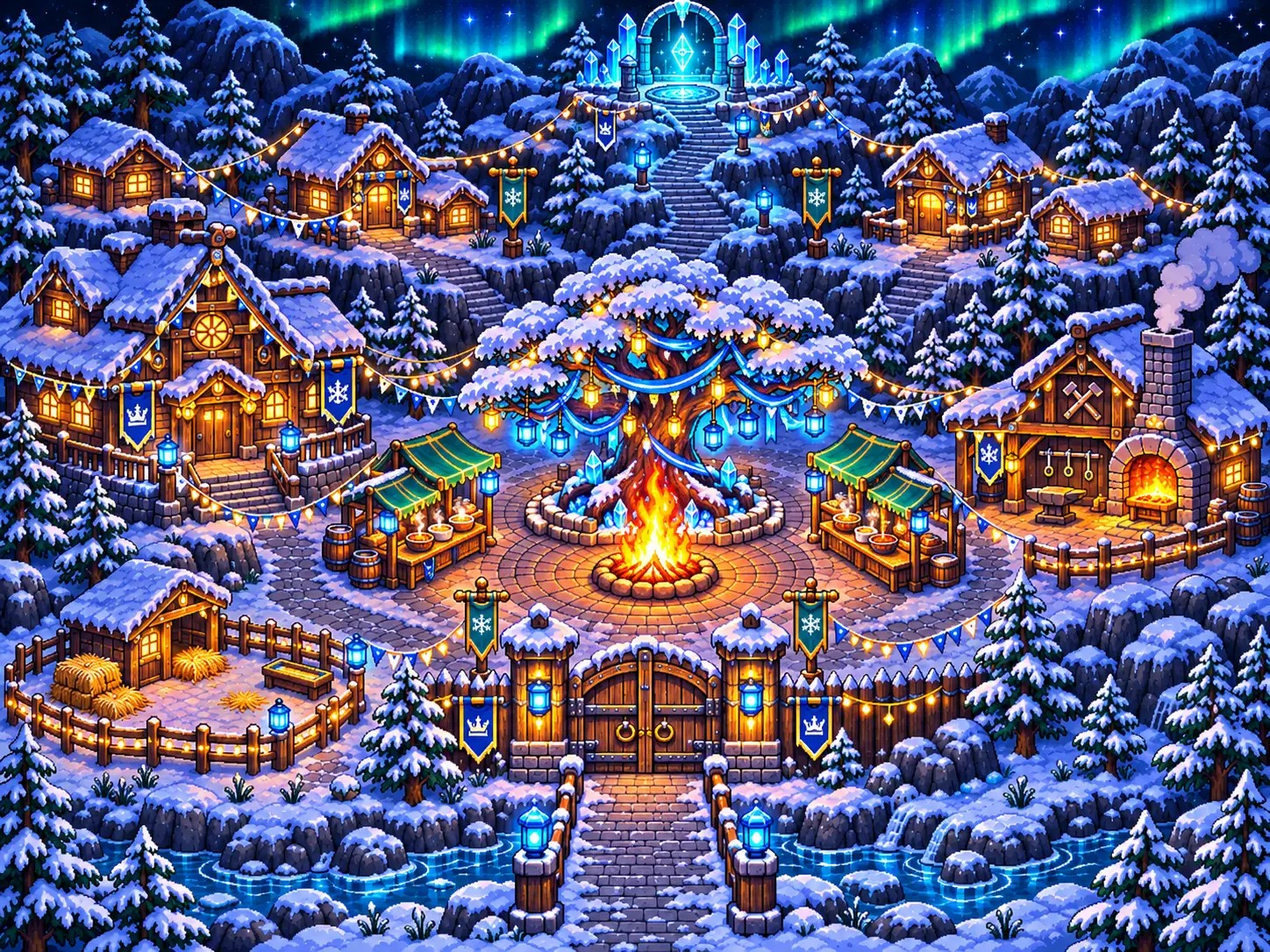
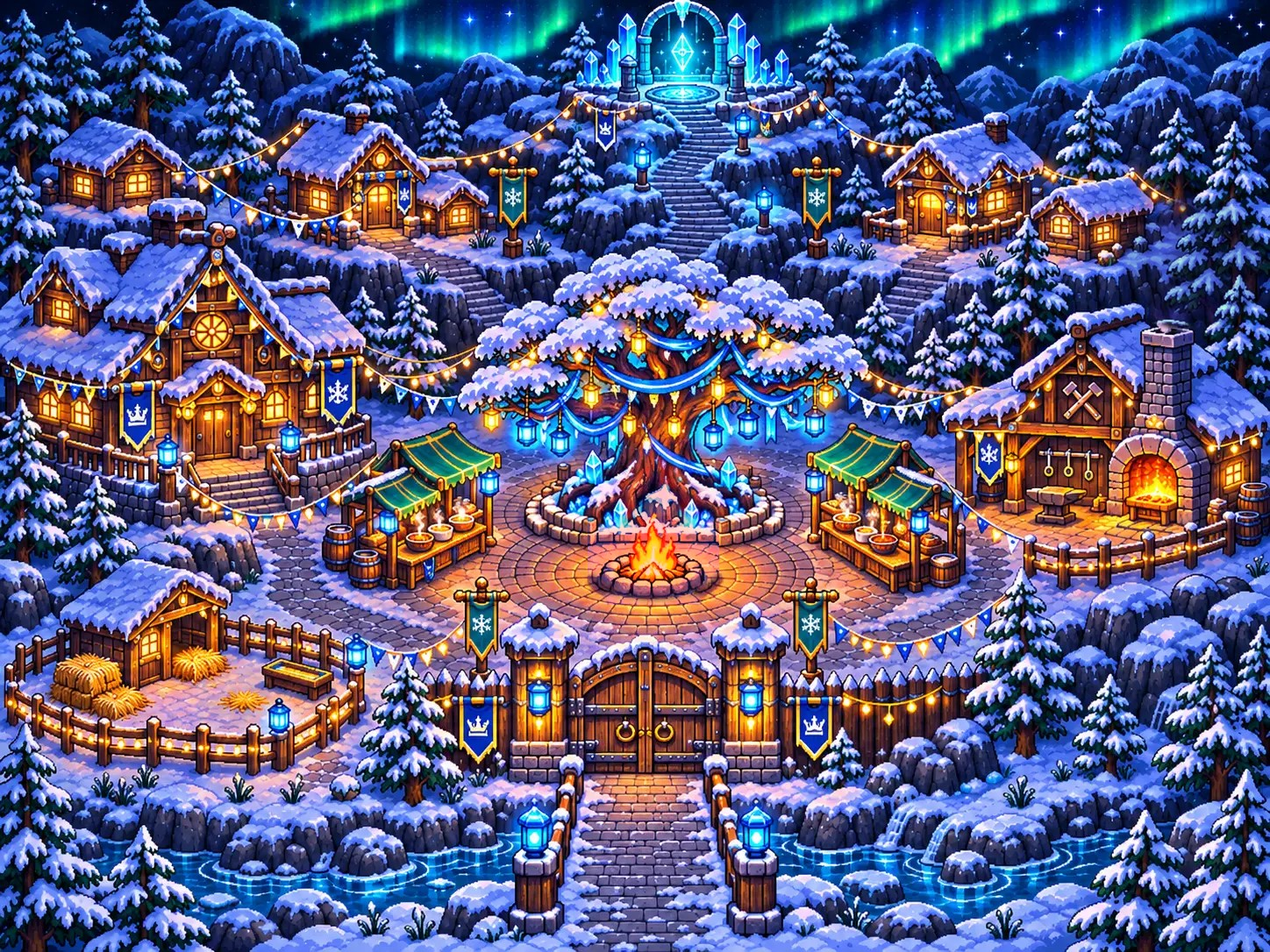
Mapa da festa: sem lanternas, bandeiras, fogo e fumaca duplicados

Changed region(s): [[0.4351, 0.4862, 0.5905, 0.6381], [0.8702, 0.2127, 0.9945, 0.3646]]

diff --git a/vila_motor.js b/vila_motor.js
@@ -34,7 +34,7 @@ function aplicaFestival(){if(festAplicado)return;festAplicado=true;
 MAPA_FEST.onload=()=>{MAPA.src=MAPA_FEST.src;
   for(const f of FR){const c=document.createElement('canvas');c.width=f.w;c.height=f.h;const g=c.getContext('2d');
     const faz=()=>{g.clearRect(0,0,f.w,f.h);g.drawImage(f.i0||f.i,0,0,f.w,f.h);g.globalCompositeOperation='source-in';g.drawImage(MAPA_FEST,f.x,f.y,f.w,f.h,0,0,f.w,f.h);g.globalCompositeOperation='source-over';f.i0=f.i0||f.i;f.i=c;};
-    if((f.i0||f.i).complete)faz();else (f.i0||f.i).addEventListener('load',faz,{once:true});}};MAPA_FEST.src='assets/vila/mapa_festival.jpg';}
+    if((f.i0||f.i).complete)faz();else (f.i0||f.i).addEventListener('load',faz,{once:true});}};MAPA_FEST.src='assets/vila/mapa_festival.jpg?v=2';}
 // VILA EM ATAQUE (FICHA_CAP2_ATAQUE.md, Parte B): o mesmo desenho, tudo por IMAGEM (pedido do usuario): mapa ref/vila/mapa_ataque.png,
 // fogo e fumaca roxos animados pelas folhas (tools/cut_ataque.py -> vila_ataque.js). Musica 'Evil Awaits' (bosslevelaudio, CC-BY 3.0).
 const emAtaque=()=>NA_VILA&&!!(JOGO.cap2&&JOGO.cap2.fase==='ataque');
@@ -79,6 +79,9 @@ const partFeito=k=>!!((JOGO.cap2&&JOGO.cap2.e)||{})[k];
 const partProximo=()=>PART_PASSOS.find(k=>!partFeito(k))||null;
 function partMarca(k){JOGO.cap2.e=JOGO.cap2.e||{};JOGO.cap2.e[k]=true;salvaJogo();}
 const TICO_ALTAR={id:'tico_altar',x:760,y:175,r:0};
+// mapas da festa e do ataque tem as PROPRIAS lanternas e bandeiras desenhadas em outros lugares: as animadas do mapa de dia
+// (lanternas da arvore, bandeiras e cabecas de poste) nao vao por cima (2026-11-20: ficavam duas lanternas e duas bandeiras juntas)
+const mapaFesta=()=>NA_VILA&&(emFestival()||emAtaque());
 const POSTES_FEST=[[572,280,598,298],[922,280,948,298]];   // postes de bandeira que so existem no mapa da festa (pe bloqueia)
 const FEST_EFEITO={
   ingrid:()=>{if(JOGO.cap2.ingrid)return;JOGO.cap2.ingrid=true;JOGO.buff={id:'ensopado',lutas:(ITENS.ensopado&&ITENS.ensopado.lutas)||5};som(SOM.ui_vez,.6);aviso('Ensopado do Festival: bônus de comida ativo!','#7dffa8');salvaJogo();},
@@ -1778,7 +1781,7 @@ function desenha(){
   else if(NA_VILA&&emAtaque()){luz(742,648,70+Math.sin(t*9)*5+Math.sin(t*23)*2,'rgba(190,70,255,.40)');for(const[fx,fy,fe]of[...ATQ_TETO,...ATQ_CHAO])luz(fx,fy-16*fe/.4,40*fe/.4+Math.sin(t*8+fx)*3,'rgba(200,60,255,.30)');}
   else if(NA_VILA){luz(740,645,62+Math.sin(t*9)*4+Math.sin(t*23)*2,'rgba(255,150,50,.42)');
   luz(1302,515,38+Math.sin(t*7)*3,'rgba(255,130,40,.36)');
-  for(const[lx,ly,k]of[[602,490,0],[637,505,1],[670,462,2],[812,490,3],[851,480,4],[900,460,5],[930,476,6],[190,515,7],[330,500,8],[405,745,9],[320,822,10],[615,790,11],[855,790,12],[735,182,13],[870,225,14],[848,140,15]])luz(lx,ly,13,`rgba(120,220,255,${.2+.13*Math.sin(t*2+k*1.7)})`);
+  if(!mapaFesta())for(const[lx,ly,k]of[[602,490,0],[637,505,1],[670,462,2],[812,490,3],[851,480,4],[900,460,5],[930,476,6],[190,515,7],[330,500,8],[405,745,9],[320,822,10],[615,790,11],[855,790,12],[735,182,13],[870,225,14],[848,140,15]])luz(lx,ly,13,`rgba(120,220,255,${.2+.13*Math.sin(t*2+k*1.7)})`);
   // janelas acesas piscando de leve
   }
   if(NA_VILA&&!emAtaque())for(const[wx,wy,k]of[[95,210,0],[430,225,1],[240,385,2],[160,470,3],[240,475,4],[355,450,5],[1060,230,6],[1135,225,7],[1210,255,8],[1405,540,9],[70,350,10]])luz(wx,wy,10,`rgba(255,200,110,${.16+.08*Math.sin(t*1.3+k*2.1)})`);
@@ -1801,9 +1804,9 @@ function desenha(){
   // fumaca
   for(const f of fumaca){ctx.fillStyle=`rgba(190,200,215,${.32*(1-f.v/3.4)})`;ctx.beginPath();ctx.arc(f.x,f.y,f.s,0,6.283);ctx.fill();}
   // heroi (sem sombra: em Elyria o Jux nao tem sombra) e as frentes por cima dele
-  if(NA_VILA&&!emAtaque()&&hero.y>=520)desenhaLanternas();
+  if(NA_VILA&&!mapaFesta()&&hero.y>=520)desenhaLanternas();
   uiMundo();
-  const npcs=[...(SEG.ativo?[[SEG.y,desenhaSeguidor]]:[]),...(!NA_VILA?[[235,desenhaHalvardCaverna]]:emAtaque()?ataqueDesenhos():[[bacon.y,desenhaBacon],[tico.y,desenhaTico],[vovo.y,desenhaVovo],[borin.y,desenhaBorin],...ANDARILHOS.map(n=>[n.y,()=>desenhaAndarilho(n)]),...FIGURANTES.map(f=>[f.y,()=>desenhaFesta(f)]),...prepDesenhos(),...(BAN?BAN.lugares.map((l,i)=>[l[2]-6,()=>desenhaBandeira(i)]):[]),...(FOG&&!emManha()?FOG.lugares.map((l,i)=>[l[1],()=>desenhaFogo(i)]):[]),...(POS?POS.lugares.map((l,i)=>[l[1]+l[2]*1.6,()=>desenhaPoste(i)]):[])])].sort((a,b)=>a[0]-b[0]);   // quem esta atras do Jux vem antes
+  const npcs=[...(SEG.ativo?[[SEG.y,desenhaSeguidor]]:[]),...(!NA_VILA?[[235,desenhaHalvardCaverna]]:emAtaque()?ataqueDesenhos():[[bacon.y,desenhaBacon],[tico.y,desenhaTico],[vovo.y,desenhaVovo],[borin.y,desenhaBorin],...ANDARILHOS.map(n=>[n.y,()=>desenhaAndarilho(n)]),...FIGURANTES.map(f=>[f.y,()=>desenhaFesta(f)]),...prepDesenhos(),...(BAN&&!mapaFesta()?BAN.lugares.map((l,i)=>[l[2]-6,()=>desenhaBandeira(i)]):[]),...(FOG&&!emManha()?FOG.lugares.map((l,i)=>[l[1],()=>desenhaFogo(i)]):[]),...(POS&&!mapaFesta()?POS.lugares.map((l,i)=>[l[1]+l[2]*1.6,()=>desenhaPoste(i)]):[])])].sort((a,b)=>a[0]-b[0]);   // quem esta atras do Jux vem antes
   for(const [y,f] of npcs)if(y<=hero.y)f();
   desenhaHeroi(ctx,1);
   const hb=[hero.x-20,hero.y-54,hero.x+20,hero.y];let escondido=false;
@@ -1840,7 +1843,7 @@ function desenha(){
   desenhaFestaCeu();   // lanternas de papel e fogos de gelo na noite do festival
   // neve levantando nos passos
   ctx.fillStyle='rgba(235,248,255,.9)';for(const p of poeira){ctx.globalAlpha=1-p.v/.6;ctx.fillRect(p.x,p.y,1.2,1.2);}ctx.globalAlpha=1;
-  if(NA_VILA){if(hero.y<520&&!emAtaque())desenhaLanternas();if(!emAtaque())desenhaFumacas();desenhaBrilhos();}
+  if(NA_VILA){if(hero.y<520&&!mapaFesta())desenhaLanternas();if(!emAtaque())desenhaFumacas();desenhaBrilhos();}
   if(typeof vidaDesenha==='function')vidaDesenha('ar');
   // "!" em cima do heroi perto de algo
   if(perto&&!fala){const bx=hero.x,by=hero.y-58+Math.sin(t*5)*1.5;ctx.fillStyle='#fff';ctx.strokeStyle='#0a2a4a';ctx.lineWidth=1;

diff --git a/pico.html b/pico.html
@@ -53,7 +53,7 @@ canvas{width:min(100vw,177.78vh);height:auto;aspect-ratio:16/9;touch-action:none
 <script src="vila_retratos.js?v=1795117438"></script>
 <script src="vila_npc_halvard.js?v=1795117438"></script>
 <script src="vila_npc_bino.js?v=1795117438"></script>
-<script src="vila_motor.js?v=1795245100"></script>
+<script src="vila_motor.js?v=1795246300"></script>
 <script src="tela_cheia.js?v=1795225900"></script>
 </body>
 </html>

diff --git a/trilha.html b/trilha.html
@@ -48,7 +48,7 @@ canvas{width:min(100vw,177.78vh);height:auto;aspect-ratio:16/9;touch-action:none
 <script src="vila_retratos.js?v=1795117438"></script>
 <script src="vila_npc_halvard.js?v=1795117438"></script>
 <script src="vila_npc_bino.js?v=1795117438"></script>
-<script src="vila_motor.js?v=1795245100"></script>
+<script src="vila_motor.js?v=1795246300"></script>
 <script src="tela_cheia.js?v=1795225900"></script>
 </body>
 </html>

diff --git a/vale.html b/vale.html
@@ -49,7 +49,7 @@ canvas{width:min(100vw,177.78vh);height:auto;aspect-ratio:16/9;touch-action:none
 <script src="vila_retratos.js?v=1795117438"></script>
 <script src="vila_npc_halvard.js?v=1795117438"></script>
 <script src="vila_npc_bino.js?v=1795117438"></script>
-<script src="vila_motor.js?v=1795245100"></script>
+<script src="vila_motor.js?v=1795246300"></script>
 <script src="tela_cheia.js?v=1795225900"></script>
 </body>
 </html>

diff --git a/garganta.html b/garganta.html
@@ -54,7 +54,7 @@ canvas{width:min(100vw,177.78vh);height:auto;aspect-ratio:16/9;touch-action:none
 <script src="garganta_bandeira.js?v=1795117438"></script>
 <script src="vila_fogo.js?v=1795117438"></script>
 <script src="vida_garganta.js?v=1795117438"></script>
-<script src="vila_motor.js?v=1795245100"></script>
+<script src="vila_motor.js?v=1795246300"></script>
 <script src="tela_cheia.js?v=1795225900"></script>
 </body>
 </html>

diff --git a/vila.html b/vila.html
@@ -64,7 +64,7 @@ canvas{width:min(100vw,177.78vh);height:auto;aspect-ratio:16/9;touch-action:none
 <script src="vila_festa.js?v=1795227000"></script>
 <script src="vila_preparo.js?v=1795227700"></script>
 <script src="vila_ataque.js?v=1795240000"></script>
-<script src="vila_motor.js?v=1795245100"></script>
+<script src="vila_motor.js?v=1795246300"></script>
 <script src="tela_cheia.js?v=1795225900"></script>
 </body>
 </html>

diff --git a/caverna.html b/caverna.html
@@ -51,7 +51,7 @@ canvas{width:min(100vw,177.78vh);height:auto;aspect-ratio:16/9;touch-action:none
 <script src="lamina_acesa.js?v=1795117438"></script>
 <script src="fx_mapa.js?v=1795117438"></script>
 <script src="vida_garganta.js?v=1795117438"></script>
-<script src="vila_motor.js?v=1795245100"></script>
+<script src="vila_motor.js?v=1795246300"></script>
 <script src="tela_cheia.js?v=1795225900"></script>
 </body>
 </html>
